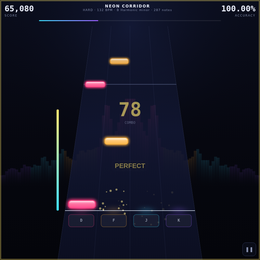
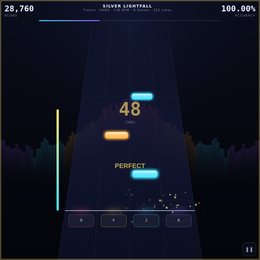
Let players choose a Pulseforge style, and refresh the screenshot
Eight styles are only useful if you can reach the one you want. Rolling
seeds until drum & bass turns up is not a feature, so the menu now has a
style control that defaults to "Any — the seed decides".

The roll happens either way and is only overridden afterwards, which
means asking for the style a seed would have chosen anyway hands back
the very same song, verified by comparing the generated melody and
backing. Best scores are keyed on the style actually played rather than
on what was requested, so a forced style and a seed that rolls into it
share one entry instead of splitting the record in two.

The style rides along in the share link as &st=, and is shown on the
song card, the in-game header and the results screen.

The menu and How to Play text now say what the game does — the tagline
still described a single generic track.

Screenshot refreshed: the in-game header gained the style name.

Verified: all eight styles reachable and each produces a valid chart,
the identical-song property holds, the URL parameter survives into a
run, and the full game regression still passes.

Claude-Session: https://claude.ai/code/session_019suyAyBf3iffsx9n7S912U

diff --git a/games/pulseforge.html b/games/pulseforge.html
@@ -108,6 +108,11 @@
             color: var(--text); font-family: 'JetBrains Mono', monospace; font-size: 15px; padding: 11px 12px;
         }
         input[type=text]:focus { outline: 2px solid var(--l2); outline-offset: 1px; border-color: transparent; }
+        select {
+            width: 100%; background: #070912; border: 1px solid var(--edge-2); border-radius: 8px;
+            color: var(--text); font-family: 'JetBrains Mono', monospace; font-size: 14px; padding: 10px 12px;
+        }
+        select:focus { outline: 2px solid var(--l2); outline-offset: 1px; }
 
         button {
             font: inherit; color: inherit; background: none; border: none; cursor: pointer;
@@ -250,8 +255,8 @@
 <!-- ── Menu ────────────────────────────────────────── -->
 <div class="screen" id="menu">
     <h1>Pulseforge</h1>
-    <p class="tagline">A rhythm game with <b>no audio files</b>. Type a word — Pulseforge composes a whole track from it and
-        the melody it writes <b>is</b> the note chart. Same seed, same song, forever.</p>
+    <p class="tagline">A rhythm game with <b>no audio files</b>. Type a word — Pulseforge writes a whole track from it in
+        one of <b>eight styles</b>, and the melody it writes <b>is</b> the note chart. Same seed, same song, forever.</p>
 
     <div class="card">
         <label class="field">
@@ -267,6 +272,11 @@
             <div class="songmeta mono" id="sMeta">—</div>
             <button class="btn preview" id="prev">▶ Hear the drop</button>
         </div>
+
+        <label class="field">
+            <span class="lbl">Style</span>
+            <select id="style" aria-label="Musical style"></select>
+        </label>
 
         <div class="field">
             <span class="lbl">Difficulty</span>
@@ -315,7 +325,7 @@
             <b>Long notes.</b> Bars with a tail must be held until the end.<br>
             <b>Wrong presses cost you.</b> Hitting a lane with nothing in it breaks your combo and shaves a few points — but it never counts against your accuracy, which only ever measures how you timed real notes.<br>
             <b>Overdrive.</b> Chaining hits fills the flow meter on the left. Fill it and every point counts double.<br>
-            <b>Seeds.</b> Any text composes a different song — key, tempo, structure and melody. Share the link to share the exact track.<br>
+            <b>Seeds.</b> Any text composes a different song — style, key, tempo, structure and melody. Synthwave, house, trance, drum &amp; bass, chiptune, lo-fi, trap and cinematic each bring their own drums, instruments and mix. Pick one, or let the seed choose. Share the link to share the exact track.<br>
             <b>Offset.</b> If your hits feel early or late, run the tap calibration in settings. Headphones beat Bluetooth speakers.
         </p>
     </div>
@@ -550,11 +560,14 @@
         const TITLE_A = ['Neon', 'Glass', 'Velvet', 'Iron', 'Paper', 'Hollow', 'Solar', 'Frozen', 'Crimson', 'Quiet',
                          'Electric', 'Midnight', 'Chrome', 'Static', 'Wild', 'Distant', 'Molten', 'Silver', 'Bitter', 'Endless'];
 
-        function composeSong(seedStr) {
+        function composeSong(seedStr, forceStyle) {
             const rnd = mulberry32(xmur3(seedStr || 'pulseforge')());
             const pick = arr => arr[Math.floor(rnd() * arr.length)];
 
-            const style = pick(STYLES);
+            /* The roll happens either way, so asking for the style a seed
+               would have chosen anyway gives back the very same song. */
+            const rolled = pick(STYLES);
+            const style = forceStyle ? (STYLES.find(x => x.id === forceStyle) || rolled) : rolled;
             const bpm = pick(style.bpms);
             const beat = 60 / bpm, barDur = beat * 4, six = beat / 4;
             const scaleName = pick(style.scales);
@@ -1373,14 +1386,16 @@
            4 · Settings
            ═══════════════════════════════════════════════════════════ */
         const SKEY = 'pulseforge.settings';
-        const S = Object.assign({seed: '', diff: 'normal', speed: 5, vol: 80, offset: 0, auto: false}, load());
+        const S = Object.assign({seed: '', diff: 'normal', style: '', speed: 5, vol: 80, offset: 0, auto: false}, load());
 
         function load() { try { return JSON.parse(localStorage.getItem(SKEY)) || {}; } catch (e) { return {}; } }
         function save() { try { localStorage.setItem(SKEY, JSON.stringify(S)); } catch (e) { /* private mode */ } }
-        // v2: the composer was rewritten, so pre-v2 bests are for different music
-        function bestKey(seed, diff) { return 'pulseforge.best.v2.' + diff + '.' + seed.toLowerCase().trim(); }
-        function getBest(seed, diff) { try { return +localStorage.getItem(bestKey(seed, diff)) || 0; } catch (e) { return 0; } }
-        function setBest(seed, diff, v) { try { localStorage.setItem(bestKey(seed, diff), String(v)); } catch (e) { } }
+        /* v2: the composer was rewritten, so pre-v2 bests are for different
+           music. Keyed on the style actually played, so a forced style and a
+           seed that rolls the same style share one best. */
+        function bestKey(seed, diff, style) { return 'pulseforge.best.v2.' + diff + '.' + (style || 'auto') + '.' + seed.toLowerCase().trim(); }
+        function getBest(seed, diff, style) { try { return +localStorage.getItem(bestKey(seed, diff, style)) || 0; } catch (e) { return 0; } }
+        function setBest(seed, diff, style, v) { try { localStorage.setItem(bestKey(seed, diff, style), String(v)); } catch (e) { } }
 
         function randomSeed() {
             const a = ['amber', 'cobalt', 'delta', 'ember', 'flux', 'halcyon', 'indigo', 'krypton', 'lumen', 'nova', 'onyx', 'pulse', 'quartz', 'rift', 'solace', 'tundra', 'umbra', 'vertex', 'wisp', 'zenith'];
@@ -1498,7 +1513,7 @@
             A.setVolume(S.vol / 100);
             A.killAll();
 
-            song = composeSong(seedStr);
+            song = composeSong(seedStr, S.style);
             A.setMix(song.mix);
             diffKey = dk; D = DIFFS[dk];
             chart = buildChart(song, dk);
@@ -2176,9 +2191,9 @@
             $('rAcc').textContent = acc.toFixed(2) + '%';
             $('rCombo').textContent = maxCombo + '/' + chart.length;
 
-            const prev = autoplay ? 0 : getBest(song.seed, diffKey);
+            const prev = autoplay ? 0 : getBest(song.seed, diffKey, song.style);
             const isBest = !autoplay && score > prev;
-            if (isBest) setBest(song.seed, diffKey, score);
+            if (isBest) setBest(song.seed, diffKey, song.style, score);
             $('rBest').textContent = (isBest ? score : prev).toLocaleString('en-US');
             $('rNew').hidden = !isBest;
 
@@ -2307,6 +2322,7 @@
         const params = new URLSearchParams(location.search);
         S.seed = params.get('seed') || S.seed || randomSeed();
         if (params.get('d') && DIFFS[params.get('d')]) S.diff = params.get('d');
+        if (params.get('st') !== null) S.style = STYLES.some(x => x.id === params.get('st')) ? params.get('st') : '';
         diffKey = S.diff;
 
         $('seed').value = S.seed;
@@ -2314,6 +2330,14 @@
         $('sVol').value = S.vol;
         $('sOff').value = S.offset;
         $('cAuto').checked = S.auto;
+
+        $('style').innerHTML = '<option value="">Any — the seed decides</option>' +
+            STYLES.map(x => '<option value="' + x.id + '">' + x.name + '</option>').join('');
+        $('style').value = S.style || '';
+        $('style').addEventListener('change', e => {
+            S.style = e.target.value;
+            stopPreview(); refreshSongCard(); save(); A.ui(700);
+        });
 
         $('diffs').innerHTML = Object.keys(DIFFS).map(k =>
             '<button class="diff" data-d="' + k + '" aria-pressed="false">' + DIFFS[k].label + '<small>' + DIFFS[k].sub + '</small></button>').join('');
@@ -2324,14 +2348,14 @@
 
         function refreshSongCard() {
             const seed = $('seed').value.trim() || 'pulseforge';
-            const s = composeSong(seed);
+            const s = composeSong(seed, S.style);
             const n = buildChart(s, diffKey).length;
             const mins = Math.floor(s.duration / 60), secs = Math.round(s.duration % 60);
             $('sTitle').textContent = s.title;
             $('sMeta').innerHTML = '<span><b>' + s.styleName + '</b></span><span><b>' + s.bpm + '</b> BPM</span><span><b>' + s.key + '</b></span>' +
                 '<span><b>' + mins + ':' + String(secs).padStart(2, '0') + '</b> long</span>' +
                 '<span><b>' + n + '</b> notes</span>' +
-                '<span>best <b>' + getBest(seed, diffKey).toLocaleString('en-US') + '</b></span>';
+                '<span>best <b>' + getBest(seed, diffKey, s.style).toLocaleString('en-US') + '</b></span>';
         }
 
         $('diffs').addEventListener('click', e => {
@@ -2370,7 +2394,8 @@
         });
         $('rMenu').addEventListener('click', quitToMenu);
         $('rShare').addEventListener('click', async () => {
-            const url = location.origin + location.pathname + '?seed=' + encodeURIComponent(song.seed) + '&d=' + diffKey;
+            const url = location.origin + location.pathname + '?seed=' + encodeURIComponent(song.seed) +
+                '&d=' + diffKey + (S.style ? '&st=' + encodeURIComponent(S.style) : '');
             try {
                 await navigator.clipboard.writeText(url);
                 $('rShare').textContent = 'Copied!';
@@ -2393,7 +2418,7 @@
             if (!A.init()) return;
             A.ctx.resume();
             A.setVolume(S.vol / 100);
-            const s = composeSong($('seed').value.trim() || 'pulseforge');
+            const s = composeSong($('seed').value.trim() || 'pulseforge', S.style);
             const drop = s.sections.reduce((a, x) => x.i > a.i ? x : a, s.sections[0]);
             const from = drop.t, to = from + 4 * s.barDur;
             const notes = buildChart(s, diffKey);
@@ -2549,7 +2574,7 @@
                 const o = opts || {};
                 const OAC = window.OfflineAudioContext || window.webkitOfflineAudioContext;
                 if (!OAC) return null;
-                const s = composeSong(seedStr);
+                const s = composeSong(seedStr, o.style);
                 const rate = o.rate || 44100;
                 const octx = new OAC(o.mono ? 1 : 2, Math.ceil(seconds * rate), rate);
                 const keep = {};
